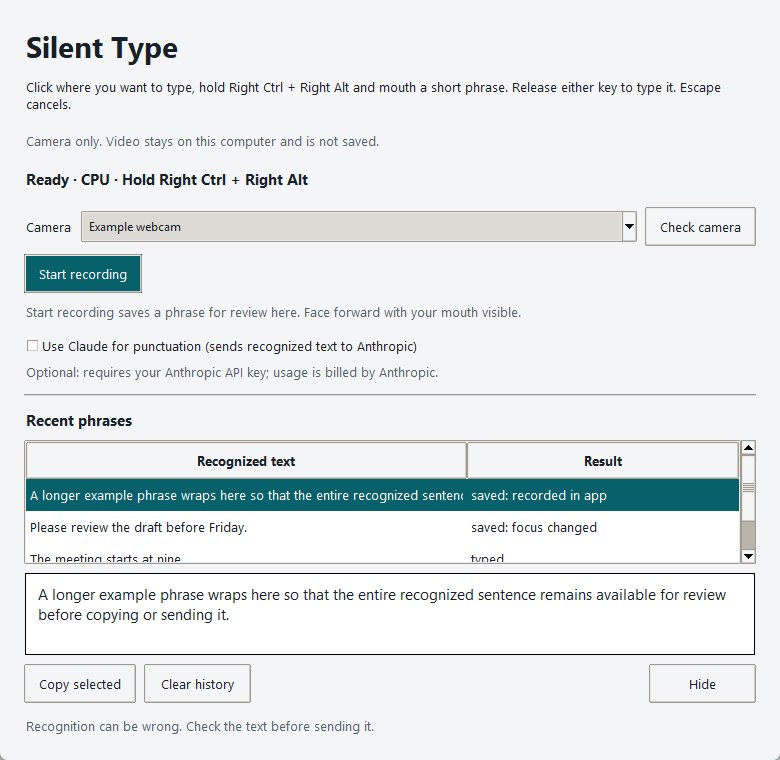
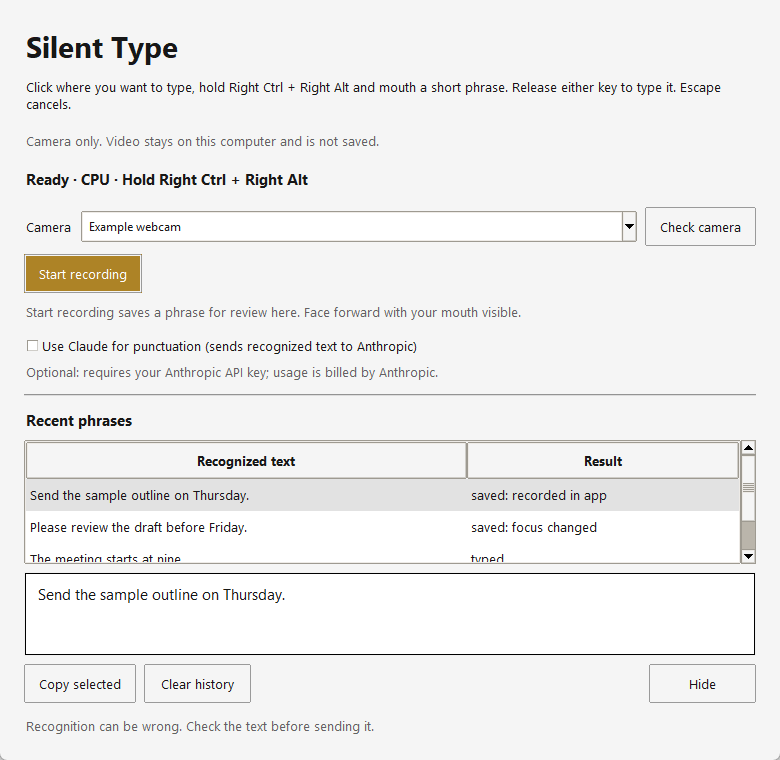
Apply shared gold theme and refresh release documentation

diff --git a/silent_type/theme.py b/silent_type/theme.py
@@ -1,15 +1,20 @@
 """Neutral desktop palette and shared native-widget styles."""
 
-BG = "#f4f5f6"
-SURFACE = "#ffffff"
-INK = "#172026"
-MUTED = "#53616a"
-ACCENT = "#087e8b"
-ACCENT_DARK = "#06616b"
-EDGE = "#c9d0d4"
-ERROR = "#8b3535"
-SUCCESS = "#14783d"
-WORKING = "#805900"
+BG = "#F5F5F5"
+SURFACE = "#FFFFFF"
+INK = "#171717"
+MUTED = "#626262"
+ACCENT = "#AD8326"
+ACCENT_DARK = "#8A6820"
+ACCENT_LIGHT = "#E8DBBE"
+EDGE = "#C8C8C8"
+SELECTED = "#E2E2E2"
+STATUS = "#252525"
+ERROR = SUCCESS = WORKING = STATUS  # Status words carry meaning on a neutral strip.
+RECENTS_ROW = "#252525"
+RECENTS_HOVER = "#333333"
+RECENTS_EDGE = "#4B4B4B"
+RECENTS_MUTED = "#B8B8B8"
 
 
 def apply(root):
@@ -20,13 +25,33 @@ def apply(root):
     style = ttk.Style(root)
     style.theme_use("clam")
     style.configure(".", background=BG, foreground=INK, font=("Segoe UI", 10))
-    style.configure("TButton", padding=(12, 8), borderwidth=1, focuscolor=ACCENT)
-    style.map("TButton", background=[("active", "#e1ecee")], foreground=[("disabled", MUTED)])
-    style.configure("Accent.TButton", background=ACCENT_DARK, foreground=SURFACE)
-    style.map("Accent.TButton", background=[("active", ACCENT)], foreground=[("disabled", EDGE)])
+    style.configure(
+        "TButton",
+        padding=(12, 8),
+        borderwidth=1,
+        focuscolor=ACCENT,
+        background=BG,
+        bordercolor="#9A9A9A",
+        lightcolor=BG,
+        darkcolor=BG,
+    )
+    style.map("TButton", background=[("active", "#E6E6E6")], foreground=[("disabled", MUTED)])
+    # White on gold is the approved brand pairing, not an AA small-text contrast claim.
+    style.configure("Accent.TButton", background=ACCENT, foreground=SURFACE)
+    style.map(
+        "Accent.TButton",
+        background=[("disabled", SELECTED), ("active", ACCENT_DARK)],
+        foreground=[("disabled", MUTED)],
+    )
     style.configure("TCombobox", padding=6, fieldbackground=SURFACE)
+    style.map(
+        "TCombobox",
+        fieldbackground=[("readonly", SURFACE)],
+        selectbackground=[("readonly", SELECTED)],
+        selectforeground=[("readonly", INK)],
+    )
     style.configure("Treeview", background=SURFACE, fieldbackground=SURFACE, rowheight=32, borderwidth=1)
-    style.map("Treeview", background=[("selected", ACCENT_DARK)], foreground=[("selected", SURFACE)])
+    style.map("Treeview", background=[("selected", SELECTED)], foreground=[("selected", INK)])
     style.configure("Treeview.Heading", padding=(8, 8), font=("Segoe UI", 10, "bold"))
     style.configure("Muted.TLabel", foreground=MUTED)
     style.configure("Title.TLabel", font=("Segoe UI", 22, "bold"))

diff --git a/silent_type/recents.py b/silent_type/recents.py
@@ -1,21 +1,23 @@
 """Recent-phrases popup: left-click the tray icon, click a row (or press its
 digit) to copy that phrase to the clipboard.
 
-Compact keyboard-operable recovery list. The neutral palette is independent of
-the author's brand; copying is always an explicit action.
+Compact keyboard-operable recovery list. Neutral surfaces and shared gold actions;
+copying is always an explicit action.
 """
 
 import ctypes
 import tkinter as tk
 import tkinter.font as tkfont
 
-INK = "#172026"
-ROW = "#242e35"
-HOVER = "#34434d"
-EDGE = "#53616a"
-PAPER = "#ffffff"
-MUTED = "#b8c5cc"
-ACCENT = "#8ed8dc"
+from .theme import ACCENT as ACTION
+from .theme import ACCENT_LIGHT as ACCENT
+from .theme import INK
+from .theme import RECENTS_EDGE as EDGE
+from .theme import RECENTS_HOVER as HOVER
+from .theme import RECENTS_MUTED as MUTED
+from .theme import RECENTS_ROW as ROW
+from .theme import SURFACE as PAPER
+
 TRANSPARENT = "#010203"  # never-drawn key color -> real rounded corners
 
 
@@ -154,15 +156,16 @@ class Recents:
                     cx + chip,
                     cy + chip // 2,
                     chip // 2,
-                    fill=ACCENT,
-                    outline="",
+                    fill=ACTION,
+                    outline=ACCENT,
+                    width=1,
                     tags=tag,
                 )
                 c.create_text(
                     cx + chip // 2,
                     cy - int(1 * s),
                     text=chip_char,
-                    fill=INK,
+                    fill=PAPER,
                     font=(disp_family, -int(12 * s), "bold"),
                     tags=tag,
                 )

diff --git a/silent_type/acceptance.py b/silent_type/acceptance.py
@@ -8,6 +8,7 @@ import tempfile
 import time
 from pathlib import Path
 
+from . import theme
 from .app import App
 from .state import History, settings
 
@@ -36,7 +37,7 @@ class Acceptance(App):
             self.strip.label,
             self.strip.hwnd,
         )
-        self.show_indicator("SILENT TYPE REVIEW TEST · loading model…", "#986b00")
+        self.show_indicator("SILENT TYPE REVIEW TEST · loading model…", theme.STATUS)
         self.root.after(250, self.check)
 
     def post(self, kind, value=None):
@@ -81,8 +82,8 @@ class Acceptance(App):
             self.ready_at = now
             if not self.busy:
                 self.show_indicator(
-                    f"REVIEW TEST READY · hold {self.hold_control.label()}\nWait for green, mouth a short sentence, release. Nothing typed into apps.",
-                    "#5744a0",
+                    f"REVIEW TEST READY · hold {self.hold_control.label()}\nWait for Recording, mouth a short sentence, release. Nothing typed into apps.",
+                    theme.STATUS,
                 )
         self.write_receipt()
         if not self.ending and (
@@ -92,7 +93,7 @@ class Acceptance(App):
             self.ending = True
             self.hold_control = None
             self.cancel.set()
-            self.show_indicator("Review test ended · keyboard control is off", "#5744a0")
+            self.show_indicator("Review test ended · keyboard control is off", theme.STATUS)
             self.root.after(5000, lambda: self.post("quit"))
         self.root.after(250, self.check)
 

diff --git a/silent_type/icon.py b/silent_type/icon.py
@@ -2,7 +2,7 @@
 
 The artwork is Microsoft's Segoe UI Emoji, so it is rendered on each computer
 rather than shipped in this repository. Ready shows the plain emoji; recording
-and reading add a green or amber dot; off is gray.
+and reading add a gold or light-gold dot; off is gray.
 
 `python -m silent_type.icon` writes `silent_type/silent-type.ico` for the Start
 menu shortcut and windows.
@@ -14,9 +14,11 @@ from pathlib import Path
 
 from PIL import Image, ImageDraw, ImageFont, ImageOps
 
+from . import theme
+
 SHUSH = "\U0001f92b"
 EMOJI_FONT = Path(os.environ.get("WINDIR", r"C:\Windows")) / "Fonts" / "seguiemj.ttf"
-DOTS = {"recording": "#14783d", "working": "#986b00"}
+DOTS = {"recording": theme.ACCENT, "working": theme.ACCENT_LIGHT}
 ICO = Path(__file__).with_name("silent-type.ico")
 
 

diff --git a/silent_type/indicator.py b/silent_type/indicator.py
@@ -4,7 +4,7 @@ import ctypes as C
 import tkinter as tk
 from ctypes import wintypes as W
 
-from . import windows
+from . import theme, windows
 
 
 class Indicator:
@@ -20,7 +20,7 @@ class Indicator:
             text="",
             font=("Segoe UI", 12),
             fg="white",
-            bg="#172026",
+            bg=theme.STATUS,
             wraplength=width - 32,
             padx=16,
             pady=12,
@@ -41,7 +41,7 @@ class Indicator:
         if not u.SetLayeredWindowAttributes(self.hwnd, 0, 255, 2):
             raise C.WinError(C.get_last_error())
 
-    def show(self, text, color="#333333"):
+    def show(self, text, color=theme.STATUS):
         self.label.configure(text=text, bg=color)
         self.window.update_idletasks()
         u = windows.user32

diff --git a/silent_type/app.py b/silent_type/app.py
@@ -19,7 +19,7 @@ from .session import Session, Signals
 from .state import History, data_dir, save_settings, settings
 
 LOG = logging.getLogger(__name__)
-RED, GREEN, AMBER, VIOLET = theme.ERROR, theme.SUCCESS, theme.WORKING, theme.ACCENT_DARK
+RED, GREEN, AMBER, VIOLET = theme.ERROR, theme.SUCCESS, theme.WORKING, theme.STATUS
 MENU_KEYS = frozenset((0xA4, 0xA5, 0x5B, 0x5C))  # Alt and Windows open menus on a lone release
 
 
@@ -165,7 +165,7 @@ class App:
 
     # -- status strip --------------------------------------------------------------
 
-    def show_indicator(self, text, color="#333333", seconds=None):
+    def show_indicator(self, text, color=theme.STATUS, seconds=None):
         self.strip_token += 1
         self.strip.show(text, color)
         if seconds:

diff --git a/tests/test_icon.py b/tests/test_icon.py
@@ -11,11 +11,11 @@ class IconTests(unittest.TestCase):
                 self.assertEqual(image.size, (size, size))
                 self.assertIsNotNone(image.getbbox())
 
-    def test_off_is_gray_and_recording_adds_a_green_dot(self):
+    def test_off_is_gray_and_recording_adds_a_gold_dot(self):
         r, g, b, _ = mark(64, "off").getpixel((32, 32))
         self.assertTrue(r == g == b)
         corner = mark(64, "recording").getpixel((56, 56))
-        self.assertEqual(corner[:3], (0x14, 0x78, 0x3D))
+        self.assertEqual(corner[:3], (0xAD, 0x83, 0x26))
 
 
 if __name__ == "__main__":

diff --git a/tests/test_review.py b/tests/test_review.py
@@ -61,7 +61,7 @@ class ReviewTests(unittest.TestCase):
         app.post("idle")
         app.drain()
         app.show_indicator.assert_called_once_with(
-            "Face was not visible throughout the phrase.", "#8b3535", None
+            "Face was not visible throughout the phrase.", "#252525", None
         )
         app.hide_indicator.assert_not_called()
         self.assertFalse(app.busy)

diff --git a/silent_type/__init__.py b/silent_type/__init__.py
@@ -1,3 +1,3 @@
 """Independent Windows webcam typing. No microphone capture."""
 
-__version__ = "0.4.0"
+__version__ = "0.4.1"

diff --git a/DESIGN.md b/DESIGN.md
@@ -1,22 +1,22 @@
 ---
 name: Silent Type
-description: Neutral native Windows controls with restrained teal accents.
+description: Neutral native Windows controls with shared SRC gold actions.
 colors:
-  background: "#f4f5f6"
-  surface: "#ffffff"
-  ink: "#172026"
-  muted: "#53616a"
-  accent: "#087e8b"
-  accent-dark: "#06616b"
-  edge: "#c9d0d4"
-  button-hover: "#e1ecee"
-  error: "#8b3535"
-  success: "#14783d"
-  working: "#805900"
-  recents-row: "#242e35"
-  recents-hover: "#34434d"
-  recents-muted: "#b8c5cc"
-  recents-accent: "#8ed8dc"
+  background: "#F5F5F5"
+  surface: "#FFFFFF"
+  ink: "#171717"
+  muted: "#626262"
+  accent: "#AD8326"
+  accent-dark: "#8A6820"
+  edge: "#C8C8C8"
+  button-hover: "#E6E6E6"
+  selected: "#E2E2E2"
+  status: "#252525"
+  recents-edge: "#4B4B4B"
+  recents-row: "#252525"
+  recents-hover: "#333333"
+  recents-muted: "#B8B8B8"
+  recents-accent: "#E8DBBE"
 typography:
   title:
     fontFamily: Segoe UI
@@ -60,14 +60,14 @@ components:
     padding: 8px 12px
     textColor: "{colors.ink}"
   button-primary:
-    backgroundColor: "{colors.accent-dark}"
+    backgroundColor: "{colors.accent}"
     textColor: "{colors.surface}"
     padding: 8px 12px
   button-primary-hover:
-    backgroundColor: "{colors.accent}"
-  history-selected:
     backgroundColor: "{colors.accent-dark}"
-    textColor: "{colors.surface}"
+  history-selected:
+    backgroundColor: "{colors.selected}"
+    textColor: "{colors.ink}"
     height: 32px
   phrase-review:
     backgroundColor: "{colors.surface}"
@@ -86,15 +86,17 @@ components:
 
 ## Overview
 
-Silent Type uses light gray settings, dark text, white reading surfaces and restrained teal actions. The tray recovery popup uses a dark counterpart. The user approved this neutral restyle without SRC branding or a new visual concept.
+Silent Type uses light gray settings, dark text, white reading surfaces and SRC gold actions. Its dark tray recovery popup shares the neutral gray and gold theme approved for Dictate and Snip. Native geometry and workflows remain intact.
 
 The implementation is Windows Tk/ttk with the clam theme, a custom Canvas popup and a native status window. These files describe the implemented desktop system; they do not specify a web interface. The locally rendered shushing emoji remains the application icon.
 
 ## Colors
 
-Primary accent-dark identifies manual recording and selected history. Accent supplies the active primary-button state and focus color. The popup uses the lighter recents-accent for shortcut digits and its log action.
+Accent identifies manual recording and popup shortcut chips; accent-dark is the primary-button hover color. Gold marks focus on light surfaces. Recents-accent supplies light-gold chip edges and the full-log link. History and combobox selections use selected gray with ink text.
 
-Background, surface, ink, muted and edge establish the settings hierarchy. The popup reuses ink as its shell and muted as its outline, with separate row, hover and subdued-text colors. Error, success and working are the shared theme's semantic status colors; status also has text.
+White labels on solid gold retain the approved brand exception. This pairing does not establish ordinary small-text contrast compliance.
+
+Background, surface, ink, muted and edge establish the settings hierarchy. The popup uses ink for its shell and recents-edge for its outline. Status words identify recording, progress, success and errors on the same neutral status strip. The shushing icon retains its artwork, with a gold recording dot and a light-gold working dot; off is grayscale.
 
 ## Typography
 
@@ -124,25 +126,26 @@ Settings retain ttk control geometry and the bordered rectangular phrase field. 
 
 ### Buttons and camera selector
 
-Manual recording uses the primary button. Copy, Clear history, Hide and preview use the standard button. Standard buttons have a pale active background and muted disabled text; primary buttons have edge-colored disabled text. The camera selector is readonly with 6px padding. Native theme rendering can override some requested field colors.
+Manual recording uses the primary button. Copy, Clear history, Hide and preview use the standard button. Standard buttons have a pale gray active background and muted disabled text. Disabled primary buttons use selected gray and muted text. The camera selector is readonly with 6px padding. Native theme rendering can override some requested field colors.
 
 ### History and phrase review
 
-The two-column list has 32px rows, bold headings and a vertical scrollbar. Its selected row uses teal with white text. The separate disabled text widget wraps the full selected phrase and has a one-pixel border and focus highlight. Copy selected is disabled without a valid selection; Clear history is disabled when empty. The empty list prompts recording. Clearing requires a native confirmation dialog.
+The two-column list has 32px rows, bold headings and a vertical scrollbar. Its selected row uses gray with dark text. The separate disabled text widget wraps the full selected phrase and has a one-pixel border and focus highlight. Copy selected is disabled without a valid selection; Clear history is disabled when empty. The empty list prompts recording. Clearing requires a native confirmation dialog.
 
 ### Recent phrases popup
 
-Rows support explicit mouse release on the pressed row and physical digit shortcuts. Hover changes row tone and pointer cursor. The full-log action has an L shortcut. Escape or focus loss dismisses the popup. The empty state has no copy action. This Canvas interface is not evidence of full screen-reader support.
+Rows support explicit mouse release on the pressed row and physical digit shortcuts. Gold chips retain white numerals and light-gold outlines when rows redraw. Hover changes only the neutral row tone and pointer cursor. The full-log action has an L shortcut. Escape or focus loss dismisses the popup. The empty state has no copy action. This Canvas interface is not evidence of full screen-reader support.
 
 ### Status indicator
 
-The status window stays above other windows without taking focus or mouse clicks. It uses white Segoe UI text; callers supply the status background. It must not interrupt typing or acquire foreground focus.
+The status window stays above other windows without taking focus or mouse clicks. It uses white Segoe UI text on the neutral status background. It must not interrupt typing or acquire foreground focus.
 
 ## Do's and Don'ts
 
 - Do preserve native workflows, visible status text and complete phrase recovery.
 - Do reserve enough height for review and action controls at the minimum reviewed settings size.
 - Do keep actual UI behavior in Tk/ttk and Windows APIs; the design sidecar contains no substitute HTML controls.
-- Don't introduce SRC colors, typography or branding.
+- Do keep gold for actions, gray for selections and explicit text for status.
+- Don't replace the approved native typography or geometry with marketing-page styling.
 - Don't turn the tray utility into a new visual concept or website.
 - Don't infer untested scaling, accessibility or application compatibility guarantees from the reviewed screenshots.

diff --git a/docs/verification.md b/docs/verification.md
@@ -1,5 +1,16 @@
 # Release verification
 
+## 0.4.1 · October 16, 2026
+
+74 offline tests and the native window/history fixtures passed. Both runtime locks and the base PyTorch version passed advisory audits. Camera/model code and dependency locks are unchanged; no live camera or recognition test was repeated for this theme update.
+
+The implemented gold theme was compared with the approved native previews at normal and constrained sizes, including populated, empty, hover, focus and error states where applicable. Actions are gold with white labels; links and dark-surface focus are light gold; surfaces and selections are neutral gray. White on gold is an approved visual exception, not a claim of AA small-text contrast. Full screen-reader, high-contrast and mixed-DPI support remain unverified.
+
+Release assets are built from the exact commit, with hosted checks, exported-tree/history secret scans and an unauthenticated SHA-256 download check recorded in the versioned release notes. Existing personal installations are not modified.
+
+## Previous release evidence
+
+
 Version 0.4.0, Windows x64, Python 3.12, October 15, 2026.
 
 ## Evidence

diff --git a/PRODUCT.md b/PRODUCT.md
@@ -18,7 +18,7 @@ Public GitHub source and download on the author's personal profile, separate fro
 
 Preserve camera release, tray on/off, manual review, Recents copying, nonactivating status and cancellation. No microphone capture or saved video. Cloud punctuation is opt-in. Default storage and shortcuts must not overwrite older installations.
 
-The user requested neutral grays, black and white, with restrained blue or teal, without SRC branding. Existing native desktop interactions and the locally rendered shushing icon are retained. No new visual concept or website is in scope.
+Diane approved the shared public-edition theme: black, white and neutral gray with SRC gold actions, darker-gold hover and light-gold links and dark-surface details. Selections stay gray; status words sit on a neutral strip. White labels on gold retain the approved brand contrast exception. Native desktop interactions and the locally rendered shushing icon remain. Installed copies are outside this public-release change.
 
 ## Quality boundaries
 
